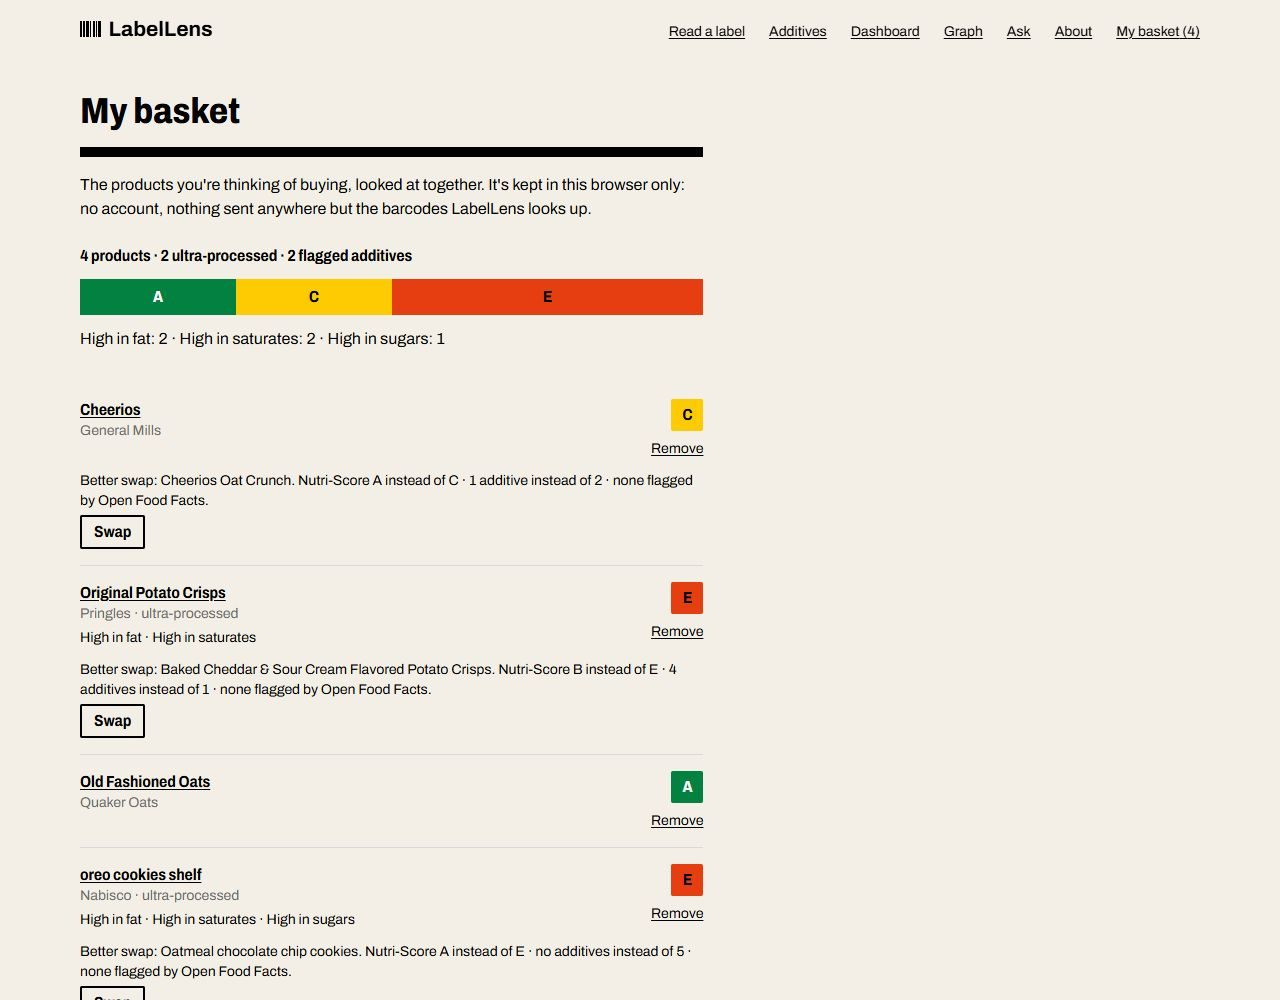
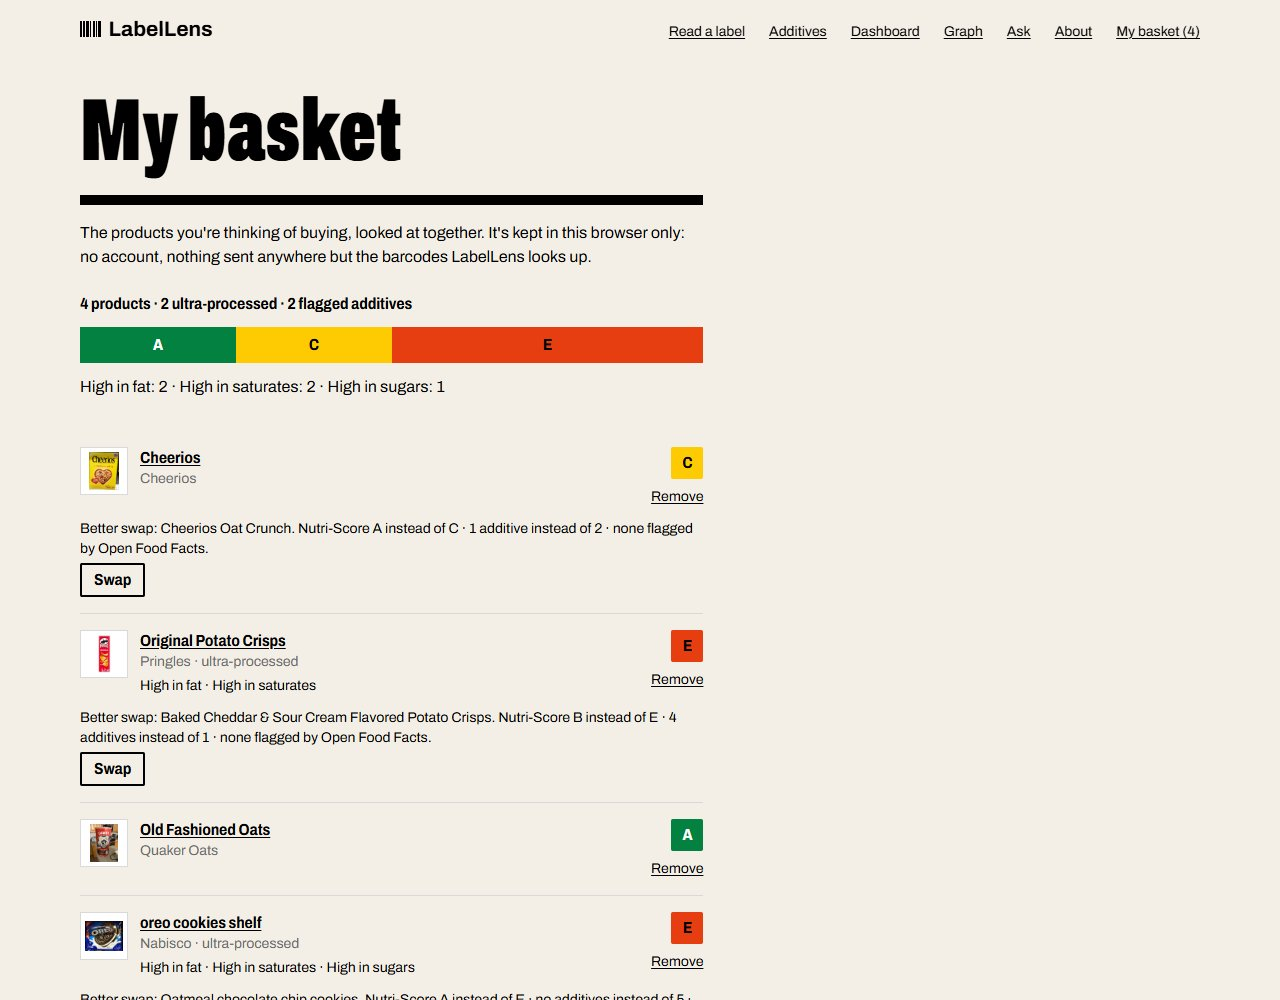
Product page description in the head, 100 px thumbnails, current README screenshots, decision 0018 (#51)
* Product page: metadata in the head for every browser, and connect early to the photo server

* README screenshots of the current site, 100 px thumbnails, and decision note 0018

---------

Changed region(s): [[0.0625, 0.093, 0.5625, 1.0]]

diff --git a/web/components/label/pack-photo.test.tsx b/web/components/label/pack-photo.test.tsx
@@ -1,7 +1,7 @@
 import { cleanup, render, screen } from "@testing-library/react";
 import { afterEach, expect, test } from "vitest";
 
-import { PackPhoto } from "./pack-photo";
+import { PackPhoto, thumbnail } from "./pack-photo";
 
 afterEach(cleanup);
 
@@ -28,6 +28,17 @@ test("a row thumbnail is decoration beside the name, loaded lazily", () => {
   expect(img.getAttribute("alt")).toBe("");
   expect(img.getAttribute("loading")).toBe("lazy");
   expect(container.firstElementChild?.className).toContain("h-12 w-12");
+  // The 100 px photo, not the 400 px one the page's main photo uses.
+  expect(img.getAttribute("src")).toBe(SRC.replace(".400.jpg", ".100.jpg"));
+});
+
+test("only Open Food Facts' 400 px photos are swapped for their 100 px version", () => {
+  expect(thumbnail("https://images.openfoodfacts.org/x/front_en.8.400.jpg")).toBe(
+    "https://images.openfoodfacts.org/x/front_en.8.100.jpg",
+  );
+  expect(thumbnail("https://images.openfoodfacts.org/x/front_en.8.full.jpg")).toBe(
+    "https://images.openfoodfacts.org/x/front_en.8.full.jpg",
+  );
 });
 
 test("a row without a photo keeps an empty frame, so rows line up", () => {

diff --git a/web/components/label/pack-photo.tsx b/web/components/label/pack-photo.tsx
@@ -1,4 +1,13 @@
 /**
+ * Open Food Facts serves each photo at 100, 200 and 400 px wide (`front_en.8.400.jpg`). A 48 or
+ * 96 px frame needs the 100 px one (sharp at twice the pixel density), a sixth of the bytes,
+ * so thumbnails do not compete with the page's main photo.
+ */
+export function thumbnail(src: string): string {
+  return src.replace(/\.400\.jpg$/, ".100.jpg");
+}
+
+/**
  * A product's pack photo, linked from Open Food Facts (never copied or re-hosted: About, "Where
  * the data comes from"). DESIGN.md, "Pack photos": a white `paper` sticker with a `rule-light`
  * edge, the photo contained, never cropped.
@@ -50,7 +59,7 @@ export function PackPhoto({
     >
       {src && (
         // eslint-disable-next-line @next/next/no-img-element
-        <img src={src} alt="" loading="lazy" className="h-full w-full object-contain" />
+        <img src={thumbnail(src)} alt="" loading="lazy" className="h-full w-full object-contain" />
       )}
     </span>
   );

diff --git a/web/next.config.ts b/web/next.config.ts
@@ -3,6 +3,10 @@ import type { NextConfig } from "next";
 const nextConfig: NextConfig = {
   /* config options here */
   cacheComponents: true,
+  // Every browser gets the page's title and description in <head>, not streamed in later.
+  // Next streams them into <body> for anything but known crawlers, which Lighthouse's SEO
+  // check (and link previews that don't run scripts) read as missing.
+  htmlLimitedBots: /.*/,
   partialPrefetching: true,
   turbopack: {
     rules: {

diff --git a/docs/decisions/0018-award-site-review.md b/docs/decisions/0018-award-site-review.md
@@ -1,0 +1,38 @@
+# 0018: Finishing the look against award-winning sites
+
+Status: draft, for Aditya to review and edit. Date: 2026-11-25.
+
+Before calling LabelLens finished, Aditya asked for it to be checked against award-winning sites (Awwwards, the Webby winners, Web Design Awards, Site of Sites, and Tabnav's list of best website designs). The site already had its own strong system (DESIGN.md: one label, Nutri-Score colours used only for grades, motion only when something prints). The question was what those sites do well that LabelLens did not, without copying their look.
+
+## Chosen: five changes that show the real thing, bigger, and quieter
+
+Every change was its own pull request, each with screenshots at 375, 1280 and 1600 px in `docs/design/`.
+
+- **Pack photos (#46).** Award sites about products show the product. LabelLens showed a name and numbers only. Product pages, search results, swaps, comparisons and the basket now show Open Food Facts' pack photo, linked rather than copied, with the contributors' CC BY-SA credit on the product page.
+- **Big page openings (#47).** The winners open each page with type that fills the screen. Every page title went from the Title size to a new Page size (52 px on phones up to 88 px), the same narrow, heavy face as the home headline.
+- **Things to try as cards (#48).** The sample labels on Read a label and the example questions on Ask were a line of underlined links. They are now cards: the label's photo, and each question with one line saying what the agent will do with it.
+- **An additive guide you can scan (#49).** One column of 515 additives was 27,000 px tall at 1280 px. It now shows the 50 most common, filters by what additives do (colours, preservatives and six more, each with its count), and offers "Show all 515". Any search or filter searches all of them. The page is about 3,750 px tall.
+- **Quiet motion on scroll (#50).** The home page's grade strip wipes in once when it scrolls into view, the same print move as the label, and stays still under reduced motion. Nothing else moves on scroll.
+
+The home hero (#45) was fixed in the same round: a line saying what LabelLens is, and the three main ways in under the search box, so the left half is no longer empty beside the label.
+
+**Rejected:**
+- **Numbers that count up** in "How it's measured". I proposed it; DESIGN.md already lists "Number counters that tick up" under Never, and the rule stands. The numbers are still.
+- **Fade-and-slide on every section**, parallax and scroll hijacking: common on award sites, and all on DESIGN.md's Never list. One element moves, once.
+- **Hosting or resizing the pack photos ourselves** (next/image or a CDN): it would copy Open Food Facts' photos, which About says LabelLens never does. Photos are linked from their server at the sizes it already offers.
+- **A new colour for the cards or chips:** colour on this site means a Nutri-Score grade. Cards are white panels with the ink rule; the chosen filter chip is paper on ink.
+
+**What it cost:**
+- **Speed on the product page.** The pack photo is now the largest thing on the page, so Lighthouse's largest-paint time is the photo's download. On production that took the product page from 98 to 91 on performance, against a target of 90. Connecting early to the photo server made no measurable difference, so it was not kept. Thumbnails now load Open Food Facts' 100 px photo instead of the 400 px one (6 kB instead of about 30 to 60 kB each), which helps search lists but did not move the product page's score.
+- **The grade strip needs JavaScript.** Without it the strip stays hidden, as the dashboard's bars already did.
+
+## Fixed after the round
+
+- **The page description reached Lighthouse too late.** Next.js streams a page's title and description into the body for any browser it does not know as a crawler, and Lighthouse's SEO check read the product page as having no description (91). `htmlLimitedBots: /.*/` puts them in the head for everyone. On a local production build against the live API, SEO went from 91 to 100 on all three runs, and the first paint was no slower (about 765 ms, against 908 ms before).
+- **The README's screenshots** were from 2026-11-19 and showed none of this round. The eight that changed were retaken from production.
+
+## Checked
+
+- `uv run python scripts/check.py` on every pull request; CI on main after each merge.
+- The production smoke test after the merges: 23 of 23.
+- Lighthouse on production after the five merges: home 100 in every category; product 91 on performance and SEO; dashboard 96 on performance, 100 on a rerun. `evals/results/lighthouse.md` is remeasured once the description fix is live.

diff --git a/README.md b/README.md
@@ -1,6 +1,6 @@
 <div align="center">
 
-<img src="docs/readme/hero.jpg" alt="The LabelLens home page: a poster headline asking What's in it?, a product search box, and a live Nutrition Facts label printed beside it like a sticker" width="100%">
+<img src="docs/readme/hero.jpg" alt="The LabelLens home page: a poster headline asking What's in it?, one line saying what LabelLens is, a product search box with the three main ways in under it, and a live Nutrition Facts label printed beside it like a sticker" width="100%">
 
 # LabelLens
 
@@ -44,17 +44,17 @@ LabelLens puts it in one place. It states facts and published thresholds, and it
 <table>
 <tr>
 <td width="50%" valign="top">
-<img src="docs/readme/product.jpg" alt="Product page for Cheerios: Nutri-Score C, NOVA 4, additives, a better swap and a Nutrition Facts panel" width="100%">
+<img src="docs/readme/product.jpg" alt="Product page for Oreo: its pack photo, Nutri-Score E, NOVA 4, five additives, three better swaps with their photos, a Nutrition Facts panel and high-in flags" width="100%">
 <b>Look up any product.</b> Search by name, brand or barcode, or scan one with your phone's camera. Each page shows the Nutri-Score, the NOVA processing group, nutrients per 100 g with plain "high in" and "low in" flags, and every additive explained.
 </td>
 <td width="50%" valign="top">
-<img src="docs/readme/label-read.jpg" alt="Read a label: two photos of a coconut water carton and the Nutrition Facts read from them" width="100%">
+<img src="docs/readme/label-read.jpg" alt="Read a label: three sample labels as photo cards, then two photos of a coconut water carton and the start of what was read from them" width="100%">
 <b>Read a label from a photo.</b> Photograph any pack, even one that isn't in the data. Claude reads what's printed, the code converts it to per 100 g, explains the additives, finds the product it most likely is, and suggests better-graded ones.
 </td>
 </tr>
 <tr>
 <td width="50%" valign="top">
-<img src="docs/readme/ask.jpg" alt="The ask page answering: breakfast cereals under 5 g sugar without artificial colours, with ten numbered sources" width="100%">
+<img src="docs/readme/ask.jpg" alt="The ask page: three example questions as cards, then the agent's steps for breakfast cereals under 5 g sugar without artificial colours, and the start of its answer" width="100%">
 <b>Ask a question.</b> A tool-using agent answers from the data with read-only SQL, graph queries and explainer search. It streams its steps, and it can only cite rows its tools actually returned. It refuses medical advice.
 </td>
 <td width="50%" valign="top">
@@ -64,7 +64,7 @@ LabelLens puts it in one place. It states facts and published thresholds, and it
 </tr>
 <tr>
 <td width="50%" valign="top">
-<img src="docs/readme/basket.jpg" alt="My basket: four products, their Nutri-Score mix, high-in counts, and a one-tap swap under each" width="100%">
+<img src="docs/readme/basket.jpg" alt="My basket: four products with their pack photos, their Nutri-Score mix, high-in counts, and a one-tap swap under each" width="100%">
 <b>Plan a shop.</b> Put products in a basket to see them together: the grade mix, what's ultra-processed, every additive across them, and a one-tap better swap for each. Set your own rules (sugar, salt and saturated-fat limits, a minimum grade, additives to avoid), and every page says which ones a product meets.
 </td>
 <td width="50%" valign="top">
@@ -74,7 +74,7 @@ LabelLens puts it in one place. It states facts and published thresholds, and it
 </tr>
 <tr>
 <td width="50%" valign="top">
-<img src="docs/readme/dashboard.jpg" alt="Dashboard: the US label landscape, with grades and processing by category" width="100%">
+<img src="docs/readme/dashboard.jpg" alt="Dashboard: the US label landscape, with grades, processing, the largest categories and the most common additives" width="100%">
 <b>See the whole shelf.</b> A dashboard of the US packaged-food landscape: grades, processing and additives by category.
 </td>
 <td width="50%" valign="top">
